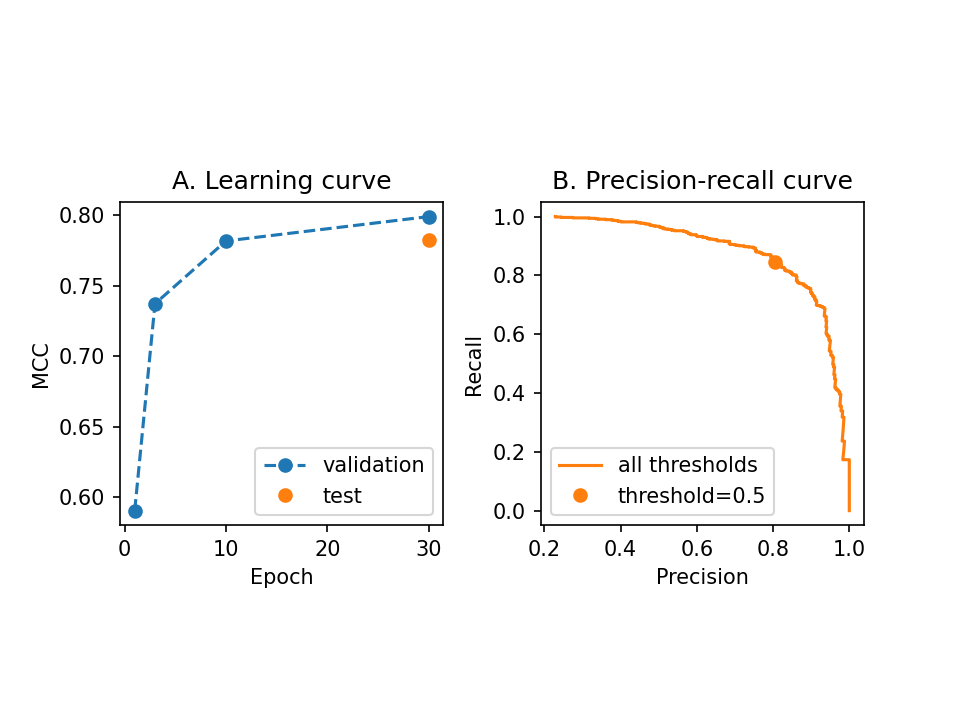
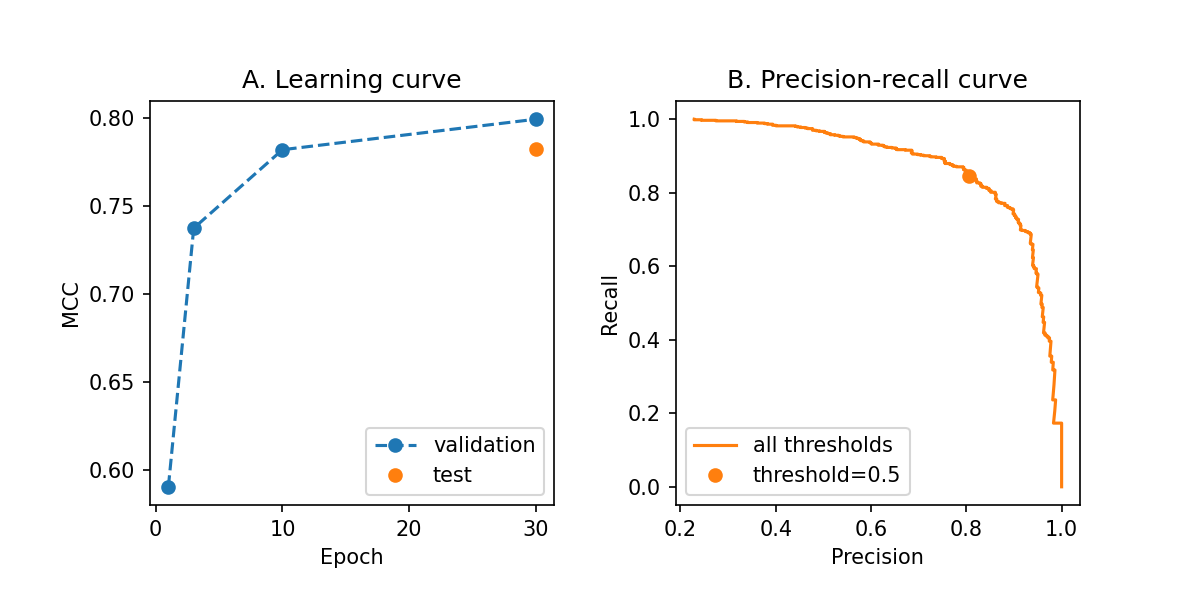
upsate fig

diff --git a/evaluate.py b/evaluate.py
@@ -51,7 +51,7 @@ presicion, recall, th = precision_recall_curve(test_labels, test_pred)
 
 th05_ind = np.argmin(np.abs(th-0.5))
 
-fig, axes = plt.subplots(1, 2)
+fig, axes = plt.subplots(1, 2, figsize=(8, 4))
 axes[0].plot(epochs, mcc_valid, 'o--', label='validation')
 axes[0].plot(epochs[-1], matthews_corrcoef(test_labels, np.round(test_pred)), 'o', label='test')
 axes[0].set_xlabel('Epoch')
